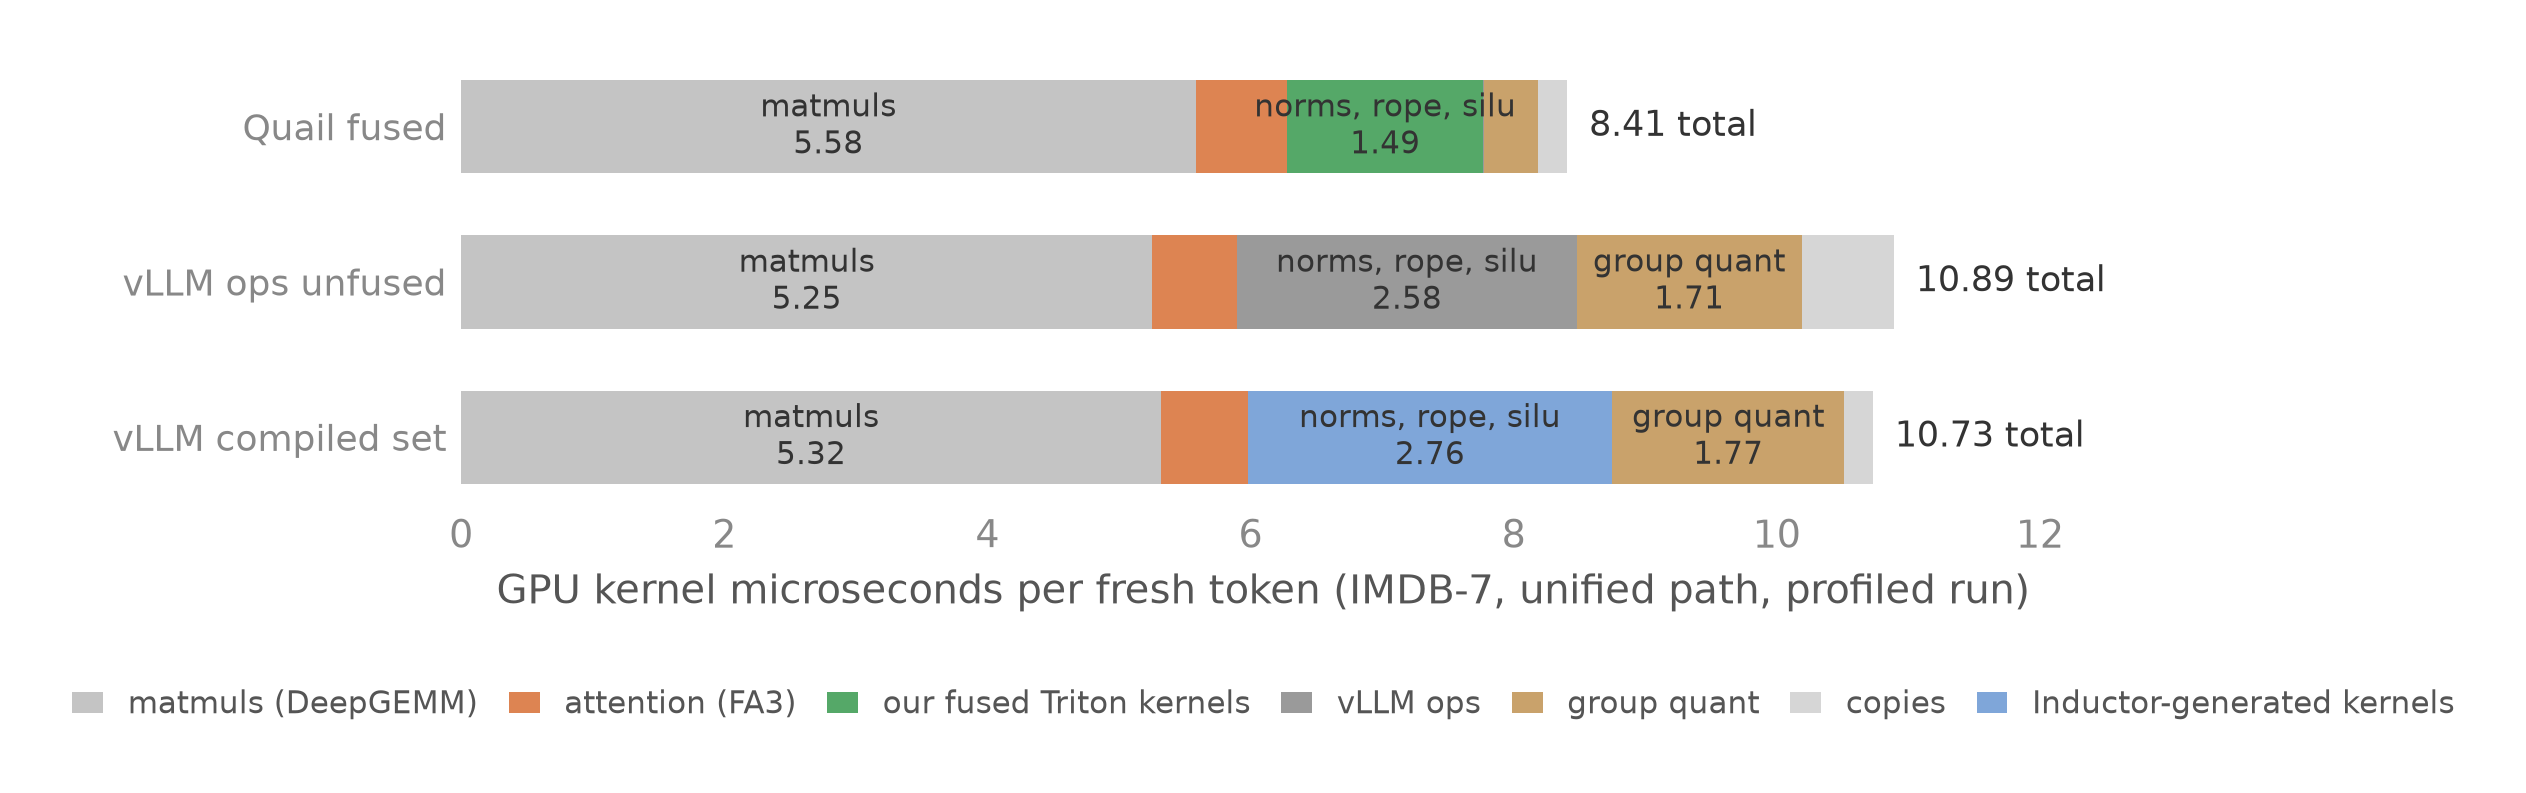
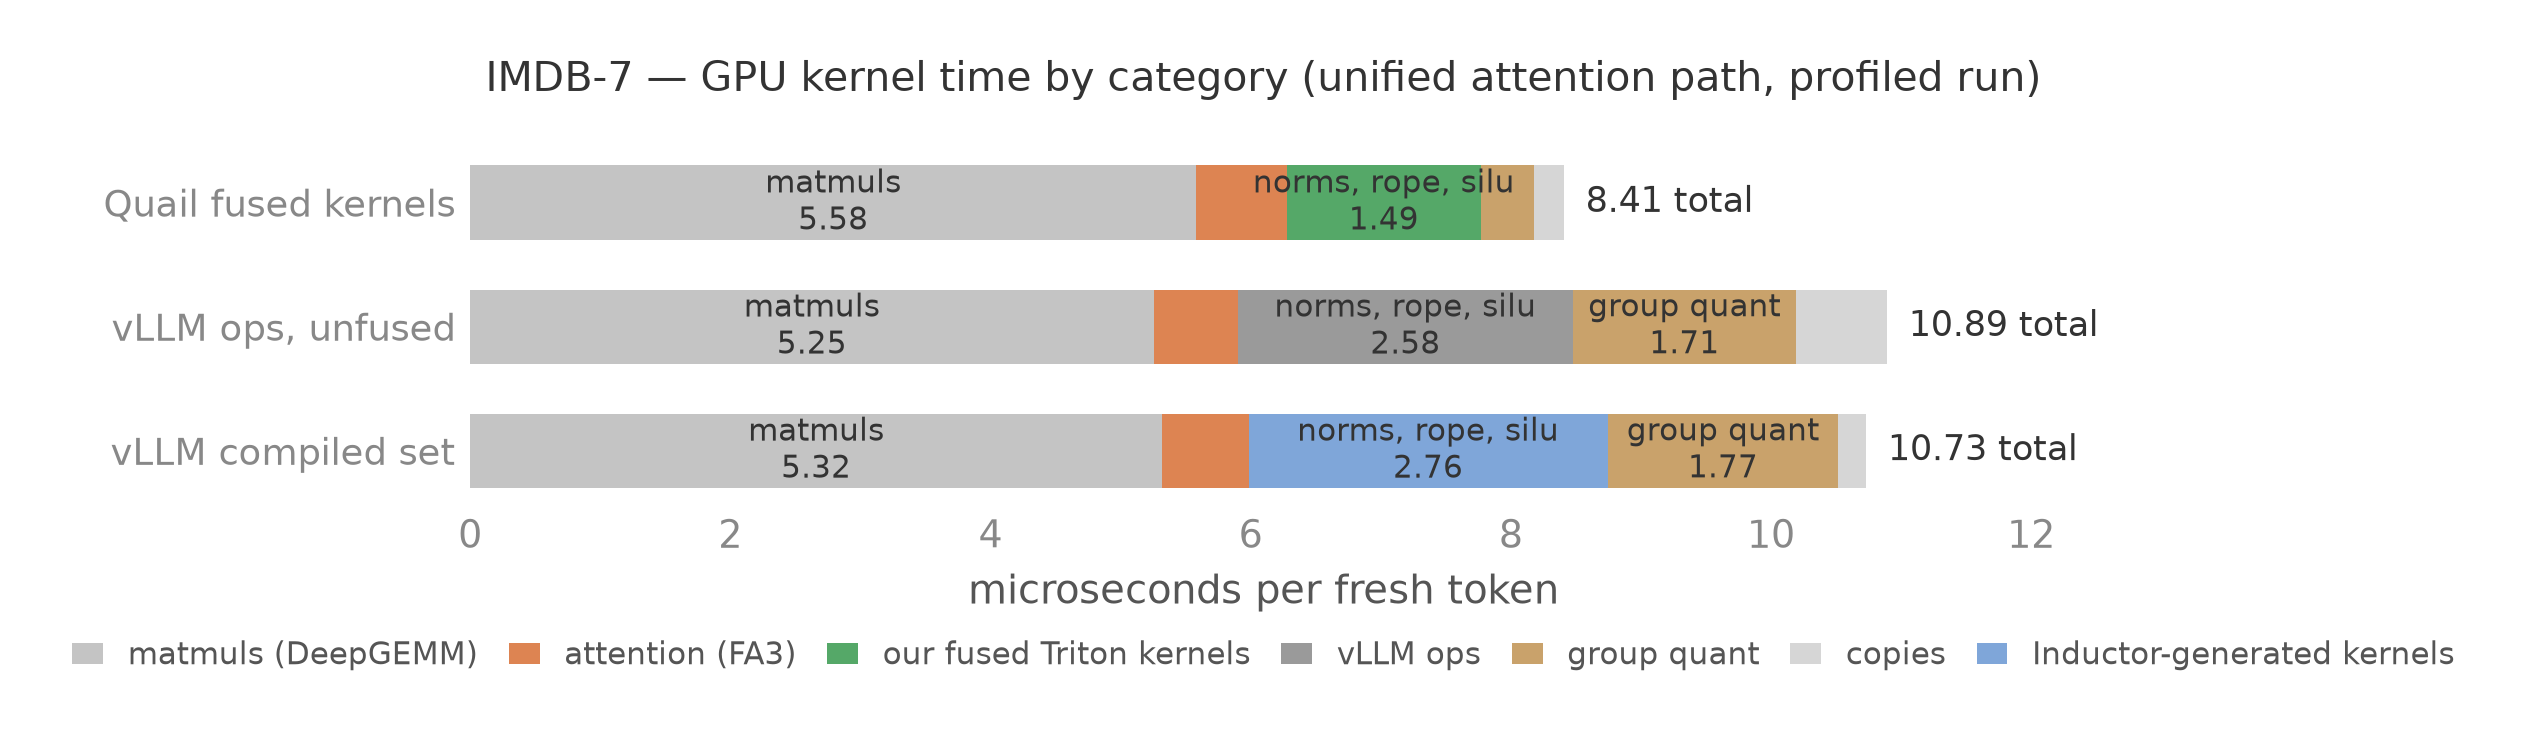
Plot rules: unit-only axis labels, query-id titles, panel spacing
AGENTS.md now requires: axis labels carry the unit and nothing else,
every plot is titled and names its benchmark query, subplots keep
enough spacing and never repeat the title's content in labels. The
kernel-source figures follow: "microseconds per fresh token" axes,
query-id titles, path only in titles, wider panel gap, integer ticks
in both panels.

Claude-Session: https://claude.ai/code/session_01PwpJt14fuuyfeoG2nhwcvz

Changed region(s): [[0.0309, 0.0618, 0.8337, 0.8347], [0.0309, 0.8656, 0.9881, 0.8965], [0.8029, 0.6492, 0.8337, 0.711]]

diff --git a/reports/make_kernel_source_plots.py b/reports/make_kernel_source_plots.py
@@ -35,10 +35,12 @@ from plot_colors import BLUE, GRAY, GREEN, ORANGE  # noqa: E402
 from quail.bench.evaluate import H100_USD_PER_HOUR  # noqa: E402
 
 SOURCES = ("quail", "vllm_ops", "vllm_compiled")
+# the attention path lives in the plot title, so the bar labels
+# carry only the kernel source
 SOURCE_LABELS = {
-    "quail": "Quail fused ({path})",
-    "vllm_ops": "vLLM ops unfused ({path})",
-    "vllm_compiled": "vLLM compiled set ({path})",
+    "quail": "Quail fused kernels",
+    "vllm_ops": "vLLM ops, unfused",
+    "vllm_compiled": "vLLM compiled set",
 }
 COLORS = {"quail": GREEN, "vllm_ops": GRAY, "vllm_compiled": BLUE}
 FILES = {"IMDB-7": "kernel_source_imdb7.json",
@@ -69,9 +71,11 @@ def work_items(report):
 def rate_panel(workdir):
     """Grouped bars: microseconds per fresh token, both queries."""
     reports = {q: load(workdir, f) for q, f in FILES.items()}
-    fig, axes = plt.subplots(1, 2, figsize=(8.4, 3.0))
+    fig, axes = plt.subplots(1, 2, figsize=(10.0, 3.0))
+    fig.set_tight_layout(False)
+    fig.subplots_adjust(left=0.13, right=0.99, top=0.86,
+                        bottom=0.18, wspace=0.85)
     for ax, (query, report) in zip(axes, reports.items()):
-        path = report["attention_path"]
         tokens = last(report, "quail")["fresh_tokens"]
         base = last(report, "quail")["us_per_token"]
         for i, source in enumerate(SOURCES):
@@ -86,17 +90,18 @@ def rate_panel(workdir):
                         textcoords="offset points", va="center",
                         fontsize=8.2)
         ax.set_yticks(range(len(SOURCES)))
-        ax.set_yticklabels(
-            [SOURCE_LABELS[s].format(path=path) for s in SOURCES],
-            fontsize=8.6)
+        ax.set_yticklabels([SOURCE_LABELS[s] for s in SOURCES],
+                           fontsize=8.8)
         ax.invert_yaxis()
-        ax.set_xlabel("wall microseconds per fresh token")
+        ax.set_xlabel("microseconds per fresh token")
         ax.set_title(
             f"{query} — {report['attention_path']} attention path "
             f"({tokens / 1e6:.2f}M fresh tokens)",
-            fontsize=9.6, fontweight="normal")
+            fontsize=9.8, fontweight="normal")
         ax.set_xlim(0, None)
         ax.margins(x=0.33)
+        ax.xaxis.set_major_locator(
+            matplotlib.ticker.MaxNLocator(integer=True))
     fig.savefig(OUT / "kernel_source_rates.png", dpi=300)
     plt.close(fig)
 
@@ -156,15 +161,14 @@ def profile_panel(workdir):
         ax.annotate(f"  {left:.2f} total", (left, i), va="center",
                     fontsize=8.5)
     ax.set_yticks(range(len(sources)))
-    # the x label carries the attention path, so rows carry only the
-    # kernel source
-    ax.set_yticklabels(
-        [SOURCE_LABELS[s].format(path=path).replace(
-            f" ({path})", "") for s in sources],
-        fontsize=8.6)
+    ax.set_yticklabels([SOURCE_LABELS[s] for s in sources],
+                       fontsize=8.8)
     ax.invert_yaxis()
-    ax.set_xlabel(f"GPU kernel microseconds per fresh token "
-                  f"({prof['query']}, {path} path, profiled run)")
+    ax.set_xlabel("microseconds per fresh token")
+    ax.set_title(
+        f"{prof['query']} — GPU kernel time by category "
+        f"({path} attention path, profiled run)",
+        fontsize=9.8, fontweight="normal")
     ax.margins(x=0.12)
     ax.legend(loc="lower center", bbox_to_anchor=(0.5, -0.55),
               ncol=len(seen), fontsize=7.4, frameon=False,

diff --git a/AGENTS.md b/AGENTS.md
@@ -163,8 +163,18 @@ effectiveness research:
   decorative gridlines.
 - Label data directly on or next to bars/points. Use a legend only
   when direct labels would overlap or repeat.
-- State the unit on every axis. Omit the plot title when the report
-  heading already says what the plot shows.
+- State the unit on every axis, and make the axis label the unit and
+  nothing else: "microseconds per fresh token", not "wall
+  microseconds per fresh token (IMDB-7, profiled run)". Context
+  beyond the unit belongs in the title.
+- Every plot has a title. When the plot shows one benchmark query,
+  the title names the query identifier (for example "IMDB-7"); with
+  one panel per query, each panel's title names its query.
+- With subplots, leave enough space between panels that labels and
+  annotations never crowd the neighboring panel. Keep labels
+  consistent across panels, and never repeat in a bar or tick label
+  what the title already says (if the title says the attention path,
+  the labels do not).
 - When comparing two things, put them next to each other on the same
   axis so the reader's eye measures the gap, not their memory.
 - Annotate the delta (speedup, difference) inline near the data it
